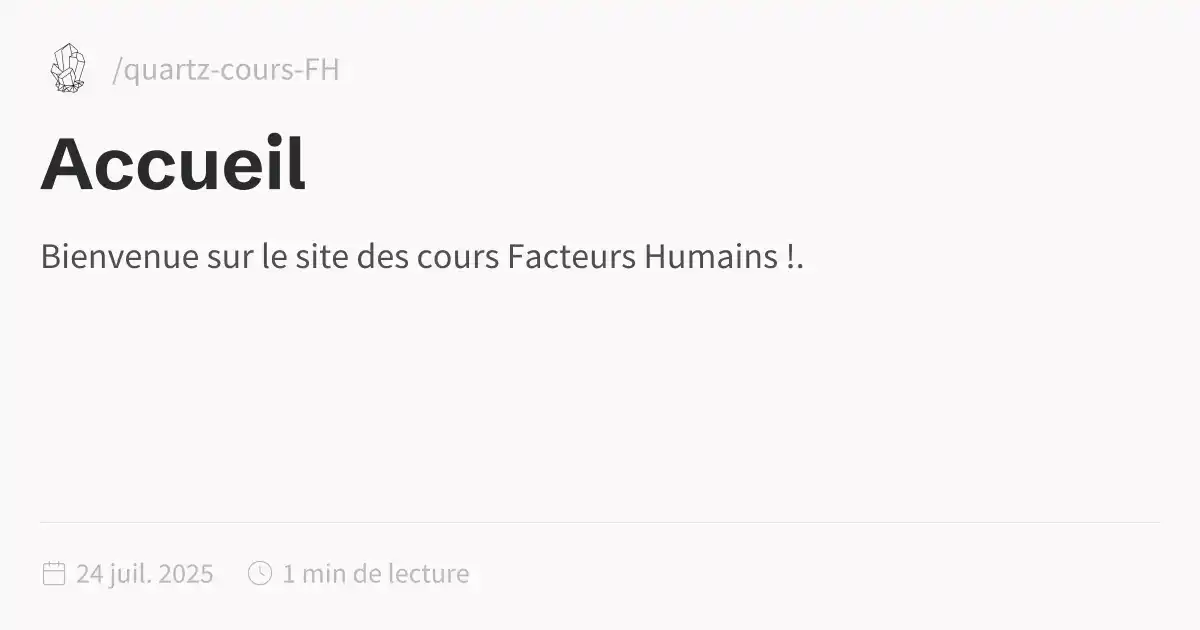
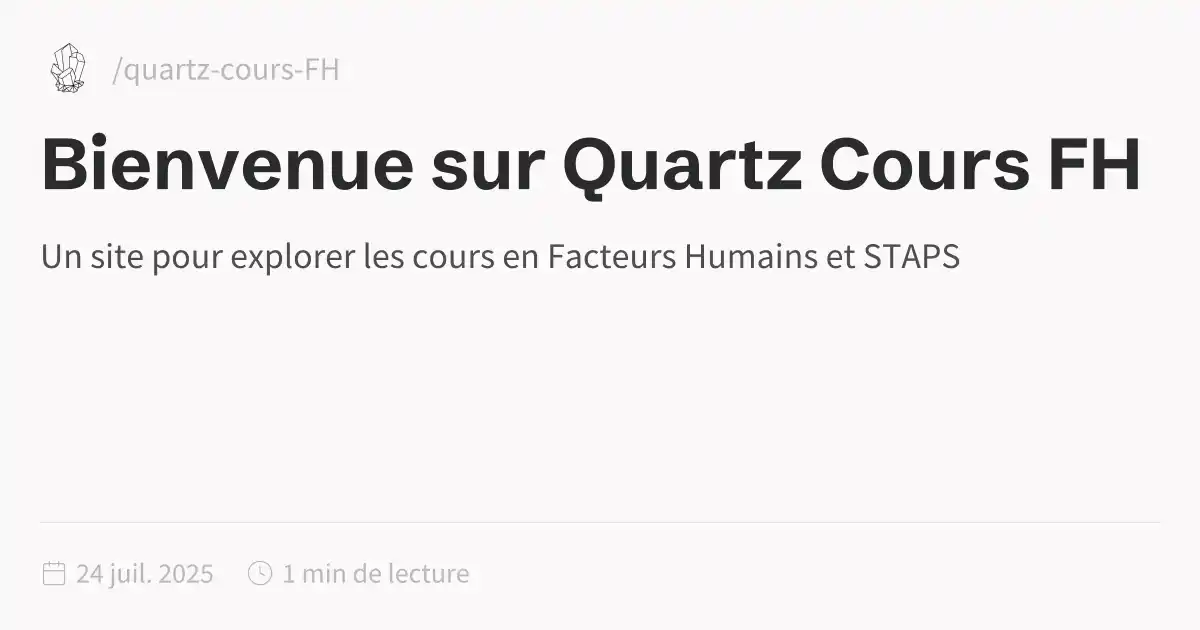
deploy: mise à jour du site

Changed region(s): [[0.0308, 0.2111, 0.9558, 0.3317], [0.0308, 0.3921, 0.8017, 0.4524]]

diff --git a/index.html b/index.html
@@ -1,5 +1,5 @@
 <!DOCTYPE html>
-<html lang="fr"><head><title>Accueil</title><meta charset="utf-8"/><link rel="preconnect" href="https://fonts.googleapis.com"/><link rel="preconnect" href="https://fonts.gstatic.com"/><link rel="stylesheet" href="https://fonts.googleapis.com/css2?family=Schibsted Grotesk:wght@400;700&amp;family=Source Sans Pro:ital,wght@0,400;0,600;1,400;1,600&amp;family=IBM Plex Mono:wght@400;600&amp;display=swap"/><link rel="preconnect" href="https://cdnjs.cloudflare.com" crossorigin="anonymous"/><meta name="viewport" content="width=device-width, initial-scale=1.0"/><meta name="og:site_name" content="Quartz 4"/><meta property="og:title" content="Accueil"/><meta property="og:type" content="website"/><meta name="twitter:card" content="summary_large_image"/><meta name="twitter:title" content="Accueil"/><meta name="twitter:description" content="Bienvenue sur le site des cours Facteurs Humains !."/><meta property="og:description" content="Bienvenue sur le site des cours Facteurs Humains !."/><meta property="og:image:alt" content="Bienvenue sur le site des cours Facteurs Humains !."/><meta property="twitter:domain" content="/quartz-cours-FH"/><meta property="og:url" content="https://quartz-cours-fh/index"/><meta property="twitter:url" content="https://quartz-cours-fh/index"/><link rel="icon" href="./static/icon.png"/><meta name="description" content="Bienvenue sur le site des cours Facteurs Humains !."/><meta name="generator" content="Quartz"/><link href="./index.css" rel="stylesheet" type="text/css" spa-preserve/><style>.expand-button {
+<html lang="fr"><head><title>Bienvenue sur Quartz Cours FH</title><meta charset="utf-8"/><link rel="preconnect" href="https://fonts.googleapis.com"/><link rel="preconnect" href="https://fonts.gstatic.com"/><link rel="stylesheet" href="https://fonts.googleapis.com/css2?family=Schibsted Grotesk:wght@400;700&amp;family=Source Sans Pro:ital,wght@0,400;0,600;1,400;1,600&amp;family=IBM Plex Mono:wght@400;600&amp;display=swap"/><link rel="preconnect" href="https://cdnjs.cloudflare.com" crossorigin="anonymous"/><meta name="viewport" content="width=device-width, initial-scale=1.0"/><meta name="og:site_name" content="Quartz 4"/><meta property="og:title" content="Bienvenue sur Quartz Cours FH"/><meta property="og:type" content="website"/><meta name="twitter:card" content="summary_large_image"/><meta name="twitter:title" content="Bienvenue sur Quartz Cours FH"/><meta name="twitter:description" content="Un site pour explorer les cours en Facteurs Humains et STAPS"/><meta property="og:description" content="Un site pour explorer les cours en Facteurs Humains et STAPS"/><meta property="og:image:alt" content="Un site pour explorer les cours en Facteurs Humains et STAPS"/><meta property="twitter:domain" content="/quartz-cours-FH"/><meta property="og:url" content="https://quartz-cours-fh/index"/><meta property="twitter:url" content="https://quartz-cours-fh/index"/><link rel="icon" href="./static/icon.png"/><meta name="description" content="Un site pour explorer les cours en Facteurs Humains et STAPS"/><meta name="generator" content="Quartz"/><link href="./index.css" rel="stylesheet" type="text/css" spa-preserve/><style>.expand-button {
   position: absolute;
   display: flex;
   float: right;
@@ -116,7 +116,22 @@ pre:hover > .expand-button {
   padding: 0 12px;
   font-size: 14px;
 }
[2 lines of base64/hex data omitted]
+  <img src="./static/logo.png" alt="Logo du site" width="100"/>
+</div>
+<h1 id="-bienvenue-">👋 Bienvenue !<a role="anchor" aria-hidden="true" tabindex="-1" data-no-popover="true" href="#-bienvenue-" class="internal"><svg width="18" height="18" viewBox="0 0 24 24" fill="none" stroke="currentColor" stroke-width="2" stroke-linecap="round" stroke-linejoin="round"><path d="M10 13a5 5 0 0 0 7.54.54l3-3a5 5 0 0 0-7.07-7.07l-1.72 1.71"></path><path d="M14 11a5 5 0 0 0-7.54-.54l-3 3a5 5 0 0 0 7.07 7.07l1.71-1.71"></path></svg></a></h1>
+<p>Ce site rassemble mes notes de cours, fiches de révision et lectures dans le cadre du Master IEAP.</p>
+<h2 id="-accès-rapide">🌟 Accès rapide<a role="anchor" aria-hidden="true" tabindex="-1" data-no-popover="true" href="#-accès-rapide" class="internal"><svg width="18" height="18" viewBox="0 0 24 24" fill="none" stroke="currentColor" stroke-width="2" stroke-linecap="round" stroke-linejoin="round"><path d="M10 13a5 5 0 0 0 7.54.54l3-3a5 5 0 0 0-7.07-7.07l-1.72 1.71"></path><path d="M14 11a5 5 0 0 0-7.54-.54l-3 3a5 5 0 0 0 7.07 7.07l1.71-1.71"></path></svg></a></h2>
+<ul>
+<li><a href="./Réponses-perceptives/" class="internal alias" data-slug="Réponses-perceptives/index">Réponses perceptives</a></li>
+<li><a href="./Réponses-perceptives/psychophysique" class="internal alias" data-slug="Réponses-perceptives/psychophysique">Psychophysique</a></li>
+<li><a href="./Réponses-perceptives/Vision-centrale-vs-périphérique" class="internal alias" data-slug="Réponses-perceptives/Vision-centrale-vs-périphérique">Vision centrale vs périphérique</a></li>
+</ul>
+<h2 id="-objectif">✨ Objectif<a role="anchor" aria-hidden="true" tabindex="-1" data-no-popover="true" href="#-objectif" class="internal"><svg width="18" height="18" viewBox="0 0 24 24" fill="none" stroke="currentColor" stroke-width="2" stroke-linecap="round" stroke-linejoin="round"><path d="M10 13a5 5 0 0 0 7.54.54l3-3a5 5 0 0 0-7.07-7.07l-1.72 1.71"></path><path d="M14 11a5 5 0 0 0-7.54-.54l-3 3a5 5 0 0 0 7.07 7.07l1.71-1.71"></path></svg></a></h2>
+<p>Proposer une navigation claire et agréable autour des contenus de formation en facteurs humains.
+![]<img width="433" height="577" alt="belo la pose" src="https://github.com/user-attachments/assets/2b79655c-0cf8-479d-b318-d82604ed383e"/></p>
+<hr/>
+<p>💡 Site construit avec <a href="https://github.com/jackyzhao/quartz" class="external">Quartz<svg aria-hidden="true" class="external-icon" style="max-width:0.8em;max-height:0.8em;" viewBox="0 0 512 512"><path d="M320 0H288V64h32 82.7L201.4 265.4 178.7 288 224 333.3l22.6-22.6L448 109.3V192v32h64V192 32 0H480 320zM32 32H0V64 480v32H32 456h32V480 352 320H424v32 96H64V96h96 32V32H160 32z"></path></svg></a></p></article><hr/><div class="page-footer"></div></div><div class="right sidebar"><div class="graph"><h3>Vue Graphique</h3><div class="graph-outer"><div class="graph-container" data-cfg="{&quot;drag&quot;:true,&quot;zoom&quot;:true,&quot;depth&quot;:1,&quot;scale&quot;:1.1,&quot;repelForce&quot;:0.5,&quot;centerForce&quot;:0.3,&quot;linkDistance&quot;:30,&quot;fontSize&quot;:0.6,&quot;opacityScale&quot;:1,&quot;showTags&quot;:true,&quot;removeTags&quot;:[],&quot;focusOnHover&quot;:false,&quot;enableRadial&quot;:false}"></div><button class="global-graph-icon" aria-label="Global Graph"><svg version="1.1" xmlns="http://www.w3.org/2000/svg" xmlns:xlink="http://www.w3.org/1999/xlink" x="0px" y="0px" viewBox="0 0 55 55" fill="currentColor" xml:space="preserve"><path d="M49,0c-3.309,0-6,2.691-6,6c0,1.035,0.263,2.009,0.726,2.86l-9.829,9.829C32.542,17.634,30.846,17,29,17
                 s-3.542,0.634-4.898,1.688l-7.669-7.669C16.785,10.424,17,9.74,17,9c0-2.206-1.794-4-4-4S9,6.794,9,9s1.794,4,4,4
                 c0.74,0,1.424-0.215,2.019-0.567l7.669,7.669C21.634,21.458,21,23.154,21,25s0.634,3.542,1.688,4.897L10.024,42.562
                 C8.958,41.595,7.549,41,6,41c-3.309,0-6,2.691-6,6s2.691,6,6,6s6-2.691,6-6c0-1.035-0.263-2.009-0.726-2.86l12.829-12.829
@@ -126,6 +141,6 @@ pre:hover > .expand-button {
                 C46.042,11.405,47.451,12,49,12c3.309,0,6-2.691,6-6S52.309,0,49,0z M11,9c0-1.103,0.897-2,2-2s2,0.897,2,2s-0.897,2-2,2
                 S11,10.103,11,9z M6,51c-2.206,0-4-1.794-4-4s1.794-4,4-4s4,1.794,4,4S8.206,51,6,51z M33,49c0,2.206-1.794,4-4,4s-4-1.794-4-4
                 s1.794-4,4-4S33,46.794,33,49z M29,31c-3.309,0-6-2.691-6-6s2.691-6,6-6s6,2.691,6,6S32.309,31,29,31z M47,41c0,1.103-0.897,2-2,2
-                s-2-0.897-2-2s0.897-2,2-2S47,39.897,47,41z M49,10c-2.206,0-4-1.794-4-4s1.794-4,4-4s4,1.794,4,4S51.206,10,49,10z"></path></svg></button></div><div class="global-graph-outer"><div class="global-graph-container" data-cfg="{&quot;drag&quot;:true,&quot;zoom&quot;:true,&quot;depth&quot;:-1,&quot;scale&quot;:0.9,&quot;repelForce&quot;:0.5,&quot;centerForce&quot;:0.2,&quot;linkDistance&quot;:30,&quot;fontSize&quot;:0.6,&quot;opacityScale&quot;:1,&quot;showTags&quot;:true,&quot;removeTags&quot;:[],&quot;focusOnHover&quot;:true,&quot;enableRadial&quot;:true}"></div></div></div></div><footer class><p>Créé avec <a href="https://quartz.jzhao.xyz/">Quartz v4.5.1</a> © 2025</p><ul><li><a href="https://github.com/jackyzha0/quartz">GitHub</a></li><li><a href="https://discord.gg/cRFFHYye7t">Discord Community</a></li></ul></footer></div></div></body><script type="application/javascript">function n(){let t=this.parentElement;t.classList.toggle("is-collapsed");let e=t.getElementsByClassName("callout-content")[0];if(!e)return;let l=t.classList.contains("is-collapsed");e.style.gridTemplateRows=l?"0fr":"1fr"}function c(){let t=document.getElementsByClassName("callout is-collapsible");for(let e of t){let l=e.getElementsByClassName("callout-title")[0],s=e.getElementsByClassName("callout-content")[0];if(!l||!s)continue;l.addEventListener("click",n),window.addCleanup(()=>l.removeEventListener("click",n));let o=e.classList.contains("is-collapsed");s.style.gridTemplateRows=o?"0fr":"1fr"}}document.addEventListener("nav",c);
+                s-2-0.897-2-2s0.897-2,2-2S47,39.897,47,41z M49,10c-2.206,0-4-1.794-4-4s1.794-4,4-4s4,1.794,4,4S51.206,10,49,10z"></path></svg></button></div><div class="global-graph-outer"><div class="global-graph-container" data-cfg="{&quot;drag&quot;:true,&quot;zoom&quot;:true,&quot;depth&quot;:-1,&quot;scale&quot;:0.9,&quot;repelForce&quot;:0.5,&quot;centerForce&quot;:0.2,&quot;linkDistance&quot;:30,&quot;fontSize&quot;:0.6,&quot;opacityScale&quot;:1,&quot;showTags&quot;:true,&quot;removeTags&quot;:[],&quot;focusOnHover&quot;:true,&quot;enableRadial&quot;:true}"></div></div></div><div class="toc desktop-only"><button type="button" class="toc-header" aria-controls="toc-content" aria-expanded="true"><h3>Table des Matières</h3><svg xmlns="http://www.w3.org/2000/svg" width="24" height="24" viewBox="0 0 24 24" fill="none" stroke="currentColor" stroke-width="2" stroke-linecap="round" stroke-linejoin="round" class="fold"><polyline points="6 9 12 15 18 9"></polyline></svg></button><ul class="toc-content overflow" id="list-1"><li class="depth-0"><a href="#-bienvenue-" data-for="-bienvenue-">👋 Bienvenue !</a></li><li class="depth-1"><a href="#-accès-rapide" data-for="-accès-rapide">🌟 Accès rapide</a></li><li class="depth-1"><a href="#-objectif" data-for="-objectif">✨ Objectif</a></li><li class="overflow-end"></li></ul></div></div><footer class><p>Créé avec <a href="https://quartz.jzhao.xyz/">Quartz v4.5.1</a> © 2025</p><ul><li><a href="https://github.com/jackyzha0/quartz">GitHub</a></li><li><a href="https://discord.gg/cRFFHYye7t">Discord Community</a></li></ul></footer></div></div></body><script type="application/javascript">function n(){let t=this.parentElement;t.classList.toggle("is-collapsed");let e=t.getElementsByClassName("callout-content")[0];if(!e)return;let l=t.classList.contains("is-collapsed");e.style.gridTemplateRows=l?"0fr":"1fr"}function c(){let t=document.getElementsByClassName("callout is-collapsible");for(let e of t){let l=e.getElementsByClassName("callout-title")[0],s=e.getElementsByClassName("callout-content")[0];if(!l||!s)continue;l.addEventListener("click",n),window.addCleanup(()=>l.removeEventListener("click",n));let o=e.classList.contains("is-collapsed");s.style.gridTemplateRows=o?"0fr":"1fr"}}document.addEventListener("nav",c);
 </script><script type="module">function f(i,e){if(!i)return;function r(o){o.target===this&&(o.preventDefault(),o.stopPropagation(),e())}function t(o){o.key.startsWith("Esc")&&(o.preventDefault(),e())}i?.addEventListener("click",r),window.addCleanup(()=>i?.removeEventListener("click",r)),document.addEventListener("keydown",t),window.addCleanup(()=>document.removeEventListener("keydown",t))}function y(i){for(;i.firstChild;)i.removeChild(i.firstChild)}var h=class{constructor(e,r){this.container=e;this.content=r;this.setupEventListeners(),this.setupNavigationControls(),this.resetTransform()}isDragging=!1;startPan={x:0,y:0};currentPan={x:0,y:0};scale=1;MIN_SCALE=.5;MAX_SCALE=3;cleanups=[];setupEventListeners(){let e=this.onMouseDown.bind(this),r=this.onMouseMove.bind(this),t=this.onMouseUp.bind(this),o=this.resetTransform.bind(this);this.container.addEventListener("mousedown",e),document.addEventListener("mousemove",r),document.addEventListener("mouseup",t),window.addEventListener("resize",o),this.cleanups.push(()=>this.container.removeEventListener("mousedown",e),()=>document.removeEventListener("mousemove",r),()=>document.removeEventListener("mouseup",t),()=>window.removeEventListener("resize",o))}cleanup(){for(let e of this.cleanups)e()}setupNavigationControls(){let e=document.createElement("div");e.className="mermaid-controls";let r=this.createButton("+",()=>this.zoom(.1)),t=this.createButton("-",()=>this.zoom(-.1)),o=this.createButton("Reset",()=>this.resetTransform());e.appendChild(t),e.appendChild(o),e.appendChild(r),this.container.appendChild(e)}createButton(e,r){let t=document.createElement("button");return t.textContent=e,t.className="mermaid-control-button",t.addEventListener("click",r),window.addCleanup(()=>t.removeEventListener("click",r)),t}onMouseDown(e){e.button===0&&(this.isDragging=!0,this.startPan={x:e.clientX-this.currentPan.x,y:e.clientY-this.currentPan.y},this.container.style.cursor="grabbing")}onMouseMove(e){this.isDragging&&(e.preventDefault(),this.currentPan={x:e.clientX-this.startPan.x,y:e.clientY-this.startPan.y},this.updateTransform())}onMouseUp(){this.isDragging=!1,this.container.style.cursor="grab"}zoom(e){let r=Math.min(Math.max(this.scale+e,this.MIN_SCALE),this.MAX_SCALE),t=this.content.getBoundingClientRect(),o=t.width/2,n=t.height/2,c=r-this.scale;this.currentPan.x-=o*c,this.currentPan.y-=n*c,this.scale=r,this.updateTransform()}updateTransform(){this.content.style.transform=`translate(${this.currentPan.x}px, ${this.currentPan.y}px) scale(${this.scale})`}resetTransform(){this.scale=1;let e=this.content.querySelector("svg");this.currentPan={x:e.getBoundingClientRect().width/2,y:e.getBoundingClientRect().height/2},this.updateTransform()}},C=["--secondary","--tertiary","--gray","--light","--lightgray","--highlight","--dark","--darkgray","--codeFont"],E;document.addEventListener("nav",async()=>{let e=document.querySelector(".center").querySelectorAll("code.mermaid");if(e.length===0)return;E||=await import("https://cdnjs.cloudflare.com/ajax/libs/mermaid/11.4.0/mermaid.esm.min.mjs");let r=E.default,t=new WeakMap;for(let n of e)t.set(n,n.innerText);async function o(){for(let s of e){s.removeAttribute("data-processed");let a=t.get(s);a&&(s.innerHTML=a)}let n=C.reduce((s,a)=>(s[a]=window.getComputedStyle(document.documentElement).getPropertyValue(a),s),{}),c=document.documentElement.getAttribute("saved-theme")==="dark";r.initialize({startOnLoad:!1,securityLevel:"loose",theme:c?"dark":"base",themeVariables:{fontFamily:n["--codeFont"],primaryColor:n["--light"],primaryTextColor:n["--darkgray"],primaryBorderColor:n["--tertiary"],lineColor:n["--darkgray"],secondaryColor:n["--secondary"],tertiaryColor:n["--tertiary"],clusterBkg:n["--light"],edgeLabelBackground:n["--highlight"]}}),await r.run({nodes:e})}await o(),document.addEventListener("themechange",o),window.addCleanup(()=>document.removeEventListener("themechange",o));for(let n=0;n<e.length;n++){let v=function(){let g=l.querySelector("#mermaid-space"),m=l.querySelector(".mermaid-content");if(!m)return;y(m);let w=c.querySelector("svg").cloneNode(!0);m.appendChild(w),l.classList.add("active"),g.style.cursor="grab",u=new h(g,m)},M=function(){l.classList.remove("active"),u?.cleanup(),u=null},c=e[n],s=c.parentElement,a=s.querySelector(".clipboard-button"),d=s.querySelector(".expand-button"),p=window.getComputedStyle(a),L=a.offsetWidth+parseFloat(p.marginLeft||"0")+parseFloat(p.marginRight||"0");d.style.right=`calc(${L}px + 0.3rem)`,s.prepend(d);let l=s.querySelector("#mermaid-container");if(!l)return;let u=null;d.addEventListener("click",v),f(l,M),window.addCleanup(()=>{u?.cleanup(),d.removeEventListener("click",v)})}});
 </script><script src="https://cdn.jsdelivr.net/npm/katex@0.16.11/dist/contrib/copy-tex.min.js" type="application/javascript"></script><script src="./postscript.js" type="module"></script></html>

diff --git a/Réponses-perceptives/Vision-centrale-vs-périphérique.html b/Réponses-perceptives/Vision-centrale-vs-périphérique.html
@@ -251,6 +251,6 @@ pre:hover > .expand-button {
                 C46.042,11.405,47.451,12,49,12c3.309,0,6-2.691,6-6S52.309,0,49,0z M11,9c0-1.103,0.897-2,2-2s2,0.897,2,2s-0.897,2-2,2
                 S11,10.103,11,9z M6,51c-2.206,0-4-1.794-4-4s1.794-4,4-4s4,1.794,4,4S8.206,51,6,51z M33,49c0,2.206-1.794,4-4,4s-4-1.794-4-4
                 s1.794-4,4-4S33,46.794,33,49z M29,31c-3.309,0-6-2.691-6-6s2.691-6,6-6s6,2.691,6,6S32.309,31,29,31z M47,41c0,1.103-0.897,2-2,2
-                s-2-0.897-2-2s0.897-2,2-2S47,39.897,47,41z M49,10c-2.206,0-4-1.794-4-4s1.794-4,4-4s4,1.794,4,4S51.206,10,49,10z"></path></svg></button></div><div class="global-graph-outer"><div class="global-graph-container" data-cfg="{&quot;drag&quot;:true,&quot;zoom&quot;:true,&quot;depth&quot;:-1,&quot;scale&quot;:0.9,&quot;repelForce&quot;:0.5,&quot;centerForce&quot;:0.2,&quot;linkDistance&quot;:30,&quot;fontSize&quot;:0.6,&quot;opacityScale&quot;:1,&quot;showTags&quot;:true,&quot;removeTags&quot;:[],&quot;focusOnHover&quot;:true,&quot;enableRadial&quot;:true}"></div></div></div><div class="toc desktop-only"><button type="button" class="toc-header" aria-controls="toc-content" aria-expanded="true"><h3>Table des Matières</h3><svg xmlns="http://www.w3.org/2000/svg" width="24" height="24" viewBox="0 0 24 24" fill="none" stroke="currentColor" stroke-width="2" stroke-linecap="round" stroke-linejoin="round" class="fold"><polyline points="6 9 12 15 18 9"></polyline></svg></button><ul class="toc-content overflow" id="list-1"><li class="depth-0"><a href="#différences-structurelles-et-neuronales-entre-vision-centrale-et-périphérique" data-for="différences-structurelles-et-neuronales-entre-vision-centrale-et-périphérique">Différences structurelles et neuronales entre vision centrale et périphérique</a></li><li class="depth-1"><a href="#1-différences-structurelles-entre-vision-centrale-et-périphérique" data-for="1-différences-structurelles-entre-vision-centrale-et-périphérique">1. Différences structurelles entre vision centrale et périphérique</a></li><li class="depth-2"><a href="#explications-" data-for="explications-">Explications :</a></li><li class="depth-1"><a href="#2-différences-neuronales-entre-vision-centrale-et-périphérique" data-for="2-différences-neuronales-entre-vision-centrale-et-périphérique">2. Différences neuronales entre vision centrale et périphérique</a></li><li class="depth-2"><a href="#explications--1" data-for="explications--1">Explications :</a></li><li class="depth-1"><a href="#3-rôles-fonctionnels-des-deux-types-de-vision" data-for="3-rôles-fonctionnels-des-deux-types-de-vision">3. Rôles fonctionnels des deux types de vision</a></li><li class="depth-1"><a href="#références-format-apa" data-for="références-format-apa">Références (format APA)</a></li><li class="overflow-end"></li></ul></div></div><footer class><p>Créé avec <a href="https://quartz.jzhao.xyz/">Quartz v4.5.1</a> © 2025</p><ul><li><a href="https://github.com/jackyzha0/quartz">GitHub</a></li><li><a href="https://discord.gg/cRFFHYye7t">Discord Community</a></li></ul></footer></div></div></body><script type="application/javascript">function n(){let t=this.parentElement;t.classList.toggle("is-collapsed");let e=t.getElementsByClassName("callout-content")[0];if(!e)return;let l=t.classList.contains("is-collapsed");e.style.gridTemplateRows=l?"0fr":"1fr"}function c(){let t=document.getElementsByClassName("callout is-collapsible");for(let e of t){let l=e.getElementsByClassName("callout-title")[0],s=e.getElementsByClassName("callout-content")[0];if(!l||!s)continue;l.addEventListener("click",n),window.addCleanup(()=>l.removeEventListener("click",n));let o=e.classList.contains("is-collapsed");s.style.gridTemplateRows=o?"0fr":"1fr"}}document.addEventListener("nav",c);
+                s-2-0.897-2-2s0.897-2,2-2S47,39.897,47,41z M49,10c-2.206,0-4-1.794-4-4s1.794-4,4-4s4,1.794,4,4S51.206,10,49,10z"></path></svg></button></div><div class="global-graph-outer"><div class="global-graph-container" data-cfg="{&quot;drag&quot;:true,&quot;zoom&quot;:true,&quot;depth&quot;:-1,&quot;scale&quot;:0.9,&quot;repelForce&quot;:0.5,&quot;centerForce&quot;:0.2,&quot;linkDistance&quot;:30,&quot;fontSize&quot;:0.6,&quot;opacityScale&quot;:1,&quot;showTags&quot;:true,&quot;removeTags&quot;:[],&quot;focusOnHover&quot;:true,&quot;enableRadial&quot;:true}"></div></div></div><div class="toc desktop-only"><button type="button" class="toc-header" aria-controls="toc-content" aria-expanded="true"><h3>Table des Matières</h3><svg xmlns="http://www.w3.org/2000/svg" width="24" height="24" viewBox="0 0 24 24" fill="none" stroke="currentColor" stroke-width="2" stroke-linecap="round" stroke-linejoin="round" class="fold"><polyline points="6 9 12 15 18 9"></polyline></svg></button><ul class="toc-content overflow" id="list-1"><li class="depth-0"><a href="#différences-structurelles-et-neuronales-entre-vision-centrale-et-périphérique" data-for="différences-structurelles-et-neuronales-entre-vision-centrale-et-périphérique">Différences structurelles et neuronales entre vision centrale et périphérique</a></li><li class="depth-1"><a href="#1-différences-structurelles-entre-vision-centrale-et-périphérique" data-for="1-différences-structurelles-entre-vision-centrale-et-périphérique">1. Différences structurelles entre vision centrale et périphérique</a></li><li class="depth-2"><a href="#explications-" data-for="explications-">Explications :</a></li><li class="depth-1"><a href="#2-différences-neuronales-entre-vision-centrale-et-périphérique" data-for="2-différences-neuronales-entre-vision-centrale-et-périphérique">2. Différences neuronales entre vision centrale et périphérique</a></li><li class="depth-2"><a href="#explications--1" data-for="explications--1">Explications :</a></li><li class="depth-1"><a href="#3-rôles-fonctionnels-des-deux-types-de-vision" data-for="3-rôles-fonctionnels-des-deux-types-de-vision">3. Rôles fonctionnels des deux types de vision</a></li><li class="depth-1"><a href="#références-format-apa" data-for="références-format-apa">Références (format APA)</a></li><li class="overflow-end"></li></ul></div><div class="backlinks"><h3>Liens retour</h3><ul id="list-2" class="overflow"><li><a href="../" class="internal">Bienvenue sur Quartz Cours FH</a></li><li class="overflow-end"></li></ul></div></div><footer class><p>Créé avec <a href="https://quartz.jzhao.xyz/">Quartz v4.5.1</a> © 2025</p><ul><li><a href="https://github.com/jackyzha0/quartz">GitHub</a></li><li><a href="https://discord.gg/cRFFHYye7t">Discord Community</a></li></ul></footer></div></div></body><script type="application/javascript">function n(){let t=this.parentElement;t.classList.toggle("is-collapsed");let e=t.getElementsByClassName("callout-content")[0];if(!e)return;let l=t.classList.contains("is-collapsed");e.style.gridTemplateRows=l?"0fr":"1fr"}function c(){let t=document.getElementsByClassName("callout is-collapsible");for(let e of t){let l=e.getElementsByClassName("callout-title")[0],s=e.getElementsByClassName("callout-content")[0];if(!l||!s)continue;l.addEventListener("click",n),window.addCleanup(()=>l.removeEventListener("click",n));let o=e.classList.contains("is-collapsed");s.style.gridTemplateRows=o?"0fr":"1fr"}}document.addEventListener("nav",c);
 </script><script type="module">function f(i,e){if(!i)return;function r(o){o.target===this&&(o.preventDefault(),o.stopPropagation(),e())}function t(o){o.key.startsWith("Esc")&&(o.preventDefault(),e())}i?.addEventListener("click",r),window.addCleanup(()=>i?.removeEventListener("click",r)),document.addEventListener("keydown",t),window.addCleanup(()=>document.removeEventListener("keydown",t))}function y(i){for(;i.firstChild;)i.removeChild(i.firstChild)}var h=class{constructor(e,r){this.container=e;this.content=r;this.setupEventListeners(),this.setupNavigationControls(),this.resetTransform()}isDragging=!1;startPan={x:0,y:0};currentPan={x:0,y:0};scale=1;MIN_SCALE=.5;MAX_SCALE=3;cleanups=[];setupEventListeners(){let e=this.onMouseDown.bind(this),r=this.onMouseMove.bind(this),t=this.onMouseUp.bind(this),o=this.resetTransform.bind(this);this.container.addEventListener("mousedown",e),document.addEventListener("mousemove",r),document.addEventListener("mouseup",t),window.addEventListener("resize",o),this.cleanups.push(()=>this.container.removeEventListener("mousedown",e),()=>document.removeEventListener("mousemove",r),()=>document.removeEventListener("mouseup",t),()=>window.removeEventListener("resize",o))}cleanup(){for(let e of this.cleanups)e()}setupNavigationControls(){let e=document.createElement("div");e.className="mermaid-controls";let r=this.createButton("+",()=>this.zoom(.1)),t=this.createButton("-",()=>this.zoom(-.1)),o=this.createButton("Reset",()=>this.resetTransform());e.appendChild(t),e.appendChild(o),e.appendChild(r),this.container.appendChild(e)}createButton(e,r){let t=document.createElement("button");return t.textContent=e,t.className="mermaid-control-button",t.addEventListener("click",r),window.addCleanup(()=>t.removeEventListener("click",r)),t}onMouseDown(e){e.button===0&&(this.isDragging=!0,this.startPan={x:e.clientX-this.currentPan.x,y:e.clientY-this.currentPan.y},this.container.style.cursor="grabbing")}onMouseMove(e){this.isDragging&&(e.preventDefault(),this.currentPan={x:e.clientX-this.startPan.x,y:e.clientY-this.startPan.y},this.updateTransform())}onMouseUp(){this.isDragging=!1,this.container.style.cursor="grab"}zoom(e){let r=Math.min(Math.max(this.scale+e,this.MIN_SCALE),this.MAX_SCALE),t=this.content.getBoundingClientRect(),o=t.width/2,n=t.height/2,c=r-this.scale;this.currentPan.x-=o*c,this.currentPan.y-=n*c,this.scale=r,this.updateTransform()}updateTransform(){this.content.style.transform=`translate(${this.currentPan.x}px, ${this.currentPan.y}px) scale(${this.scale})`}resetTransform(){this.scale=1;let e=this.content.querySelector("svg");this.currentPan={x:e.getBoundingClientRect().width/2,y:e.getBoundingClientRect().height/2},this.updateTransform()}},C=["--secondary","--tertiary","--gray","--light","--lightgray","--highlight","--dark","--darkgray","--codeFont"],E;document.addEventListener("nav",async()=>{let e=document.querySelector(".center").querySelectorAll("code.mermaid");if(e.length===0)return;E||=await import("https://cdnjs.cloudflare.com/ajax/libs/mermaid/11.4.0/mermaid.esm.min.mjs");let r=E.default,t=new WeakMap;for(let n of e)t.set(n,n.innerText);async function o(){for(let s of e){s.removeAttribute("data-processed");let a=t.get(s);a&&(s.innerHTML=a)}let n=C.reduce((s,a)=>(s[a]=window.getComputedStyle(document.documentElement).getPropertyValue(a),s),{}),c=document.documentElement.getAttribute("saved-theme")==="dark";r.initialize({startOnLoad:!1,securityLevel:"loose",theme:c?"dark":"base",themeVariables:{fontFamily:n["--codeFont"],primaryColor:n["--light"],primaryTextColor:n["--darkgray"],primaryBorderColor:n["--tertiary"],lineColor:n["--darkgray"],secondaryColor:n["--secondary"],tertiaryColor:n["--tertiary"],clusterBkg:n["--light"],edgeLabelBackground:n["--highlight"]}}),await r.run({nodes:e})}await o(),document.addEventListener("themechange",o),window.addCleanup(()=>document.removeEventListener("themechange",o));for(let n=0;n<e.length;n++){let v=function(){let g=l.querySelector("#mermaid-space"),m=l.querySelector(".mermaid-content");if(!m)return;y(m);let w=c.querySelector("svg").cloneNode(!0);m.appendChild(w),l.classList.add("active"),g.style.cursor="grab",u=new h(g,m)},M=function(){l.classList.remove("active"),u?.cleanup(),u=null},c=e[n],s=c.parentElement,a=s.querySelector(".clipboard-button"),d=s.querySelector(".expand-button"),p=window.getComputedStyle(a),L=a.offsetWidth+parseFloat(p.marginLeft||"0")+parseFloat(p.marginRight||"0");d.style.right=`calc(${L}px + 0.3rem)`,s.prepend(d);let l=s.querySelector("#mermaid-container");if(!l)return;let u=null;d.addEventListener("click",v),f(l,M),window.addCleanup(()=>{u?.cleanup(),d.removeEventListener("click",v)})}});
 </script><script src="https://cdn.jsdelivr.net/npm/katex@0.16.11/dist/contrib/copy-tex.min.js" type="application/javascript"></script><script src="../postscript.js" type="module"></script></html>

diff --git a/Réponses-perceptives/psychophysique.html b/Réponses-perceptives/psychophysique.html
@@ -139,6 +139,6 @@ pre:hover > .expand-button {
                 C46.042,11.405,47.451,12,49,12c3.309,0,6-2.691,6-6S52.309,0,49,0z M11,9c0-1.103,0.897-2,2-2s2,0.897,2,2s-0.897,2-2,2
                 S11,10.103,11,9z M6,51c-2.206,0-4-1.794-4-4s1.794-4,4-4s4,1.794,4,4S8.206,51,6,51z M33,49c0,2.206-1.794,4-4,4s-4-1.794-4-4
                 s1.794-4,4-4S33,46.794,33,49z M29,31c-3.309,0-6-2.691-6-6s2.691-6,6-6s6,2.691,6,6S32.309,31,29,31z M47,41c0,1.103-0.897,2-2,2
-                s-2-0.897-2-2s0.897-2,2-2S47,39.897,47,41z M49,10c-2.206,0-4-1.794-4-4s1.794-4,4-4s4,1.794,4,4S51.206,10,49,10z"></path></svg></button></div><div class="global-graph-outer"><div class="global-graph-container" data-cfg="{&quot;drag&quot;:true,&quot;zoom&quot;:true,&quot;depth&quot;:-1,&quot;scale&quot;:0.9,&quot;repelForce&quot;:0.5,&quot;centerForce&quot;:0.2,&quot;linkDistance&quot;:30,&quot;fontSize&quot;:0.6,&quot;opacityScale&quot;:1,&quot;showTags&quot;:true,&quot;removeTags&quot;:[],&quot;focusOnHover&quot;:true,&quot;enableRadial&quot;:true}"></div></div></div><div class="toc desktop-only"><button type="button" class="toc-header" aria-controls="toc-content" aria-expanded="true"><h3>Table des Matières</h3><svg xmlns="http://www.w3.org/2000/svg" width="24" height="24" viewBox="0 0 24 24" fill="none" stroke="currentColor" stroke-width="2" stroke-linecap="round" stroke-linejoin="round" class="fold"><polyline points="6 9 12 15 18 9"></polyline></svg></button><ul class="toc-content overflow" id="list-1"><li class="depth-0"><a href="#définition-simple" data-for="définition-simple">Définition simple</a></li><li class="depth-0"><a href="#définition-scientifique" data-for="définition-scientifique">Définition scientifique</a></li><li class="depth-0"><a href="#justification-scientifique" data-for="justification-scientifique">Justification scientifique</a></li><li class="overflow-end"></li></ul></div></div><footer class><p>Créé avec <a href="https://quartz.jzhao.xyz/">Quartz v4.5.1</a> © 2025</p><ul><li><a href="https://github.com/jackyzha0/quartz">GitHub</a></li><li><a href="https://discord.gg/cRFFHYye7t">Discord Community</a></li></ul></footer></div></div></body><script type="application/javascript">function n(){let t=this.parentElement;t.classList.toggle("is-collapsed");let e=t.getElementsByClassName("callout-content")[0];if(!e)return;let l=t.classList.contains("is-collapsed");e.style.gridTemplateRows=l?"0fr":"1fr"}function c(){let t=document.getElementsByClassName("callout is-collapsible");for(let e of t){let l=e.getElementsByClassName("callout-title")[0],s=e.getElementsByClassName("callout-content")[0];if(!l||!s)continue;l.addEventListener("click",n),window.addCleanup(()=>l.removeEventListener("click",n));let o=e.classList.contains("is-collapsed");s.style.gridTemplateRows=o?"0fr":"1fr"}}document.addEventListener("nav",c);
+                s-2-0.897-2-2s0.897-2,2-2S47,39.897,47,41z M49,10c-2.206,0-4-1.794-4-4s1.794-4,4-4s4,1.794,4,4S51.206,10,49,10z"></path></svg></button></div><div class="global-graph-outer"><div class="global-graph-container" data-cfg="{&quot;drag&quot;:true,&quot;zoom&quot;:true,&quot;depth&quot;:-1,&quot;scale&quot;:0.9,&quot;repelForce&quot;:0.5,&quot;centerForce&quot;:0.2,&quot;linkDistance&quot;:30,&quot;fontSize&quot;:0.6,&quot;opacityScale&quot;:1,&quot;showTags&quot;:true,&quot;removeTags&quot;:[],&quot;focusOnHover&quot;:true,&quot;enableRadial&quot;:true}"></div></div></div><div class="toc desktop-only"><button type="button" class="toc-header" aria-controls="toc-content" aria-expanded="true"><h3>Table des Matières</h3><svg xmlns="http://www.w3.org/2000/svg" width="24" height="24" viewBox="0 0 24 24" fill="none" stroke="currentColor" stroke-width="2" stroke-linecap="round" stroke-linejoin="round" class="fold"><polyline points="6 9 12 15 18 9"></polyline></svg></button><ul class="toc-content overflow" id="list-1"><li class="depth-0"><a href="#définition-simple" data-for="définition-simple">Définition simple</a></li><li class="depth-0"><a href="#définition-scientifique" data-for="définition-scientifique">Définition scientifique</a></li><li class="depth-0"><a href="#justification-scientifique" data-for="justification-scientifique">Justification scientifique</a></li><li class="overflow-end"></li></ul></div><div class="backlinks"><h3>Liens retour</h3><ul id="list-2" class="overflow"><li><a href="../" class="internal">Bienvenue sur Quartz Cours FH</a></li><li class="overflow-end"></li></ul></div></div><footer class><p>Créé avec <a href="https://quartz.jzhao.xyz/">Quartz v4.5.1</a> © 2025</p><ul><li><a href="https://github.com/jackyzha0/quartz">GitHub</a></li><li><a href="https://discord.gg/cRFFHYye7t">Discord Community</a></li></ul></footer></div></div></body><script type="application/javascript">function n(){let t=this.parentElement;t.classList.toggle("is-collapsed");let e=t.getElementsByClassName("callout-content")[0];if(!e)return;let l=t.classList.contains("is-collapsed");e.style.gridTemplateRows=l?"0fr":"1fr"}function c(){let t=document.getElementsByClassName("callout is-collapsible");for(let e of t){let l=e.getElementsByClassName("callout-title")[0],s=e.getElementsByClassName("callout-content")[0];if(!l||!s)continue;l.addEventListener("click",n),window.addCleanup(()=>l.removeEventListener("click",n));let o=e.classList.contains("is-collapsed");s.style.gridTemplateRows=o?"0fr":"1fr"}}document.addEventListener("nav",c);
 </script><script type="module">function f(i,e){if(!i)return;function r(o){o.target===this&&(o.preventDefault(),o.stopPropagation(),e())}function t(o){o.key.startsWith("Esc")&&(o.preventDefault(),e())}i?.addEventListener("click",r),window.addCleanup(()=>i?.removeEventListener("click",r)),document.addEventListener("keydown",t),window.addCleanup(()=>document.removeEventListener("keydown",t))}function y(i){for(;i.firstChild;)i.removeChild(i.firstChild)}var h=class{constructor(e,r){this.container=e;this.content=r;this.setupEventListeners(),this.setupNavigationControls(),this.resetTransform()}isDragging=!1;startPan={x:0,y:0};currentPan={x:0,y:0};scale=1;MIN_SCALE=.5;MAX_SCALE=3;cleanups=[];setupEventListeners(){let e=this.onMouseDown.bind(this),r=this.onMouseMove.bind(this),t=this.onMouseUp.bind(this),o=this.resetTransform.bind(this);this.container.addEventListener("mousedown",e),document.addEventListener("mousemove",r),document.addEventListener("mouseup",t),window.addEventListener("resize",o),this.cleanups.push(()=>this.container.removeEventListener("mousedown",e),()=>document.removeEventListener("mousemove",r),()=>document.removeEventListener("mouseup",t),()=>window.removeEventListener("resize",o))}cleanup(){for(let e of this.cleanups)e()}setupNavigationControls(){let e=document.createElement("div");e.className="mermaid-controls";let r=this.createButton("+",()=>this.zoom(.1)),t=this.createButton("-",()=>this.zoom(-.1)),o=this.createButton("Reset",()=>this.resetTransform());e.appendChild(t),e.appendChild(o),e.appendChild(r),this.container.appendChild(e)}createButton(e,r){let t=document.createElement("button");return t.textContent=e,t.className="mermaid-control-button",t.addEventListener("click",r),window.addCleanup(()=>t.removeEventListener("click",r)),t}onMouseDown(e){e.button===0&&(this.isDragging=!0,this.startPan={x:e.clientX-this.currentPan.x,y:e.clientY-this.currentPan.y},this.container.style.cursor="grabbing")}onMouseMove(e){this.isDragging&&(e.preventDefault(),this.currentPan={x:e.clientX-this.startPan.x,y:e.clientY-this.startPan.y},this.updateTransform())}onMouseUp(){this.isDragging=!1,this.container.style.cursor="grab"}zoom(e){let r=Math.min(Math.max(this.scale+e,this.MIN_SCALE),this.MAX_SCALE),t=this.content.getBoundingClientRect(),o=t.width/2,n=t.height/2,c=r-this.scale;this.currentPan.x-=o*c,this.currentPan.y-=n*c,this.scale=r,this.updateTransform()}updateTransform(){this.content.style.transform=`translate(${this.currentPan.x}px, ${this.currentPan.y}px) scale(${this.scale})`}resetTransform(){this.scale=1;let e=this.content.querySelector("svg");this.currentPan={x:e.getBoundingClientRect().width/2,y:e.getBoundingClientRect().height/2},this.updateTransform()}},C=["--secondary","--tertiary","--gray","--light","--lightgray","--highlight","--dark","--darkgray","--codeFont"],E;document.addEventListener("nav",async()=>{let e=document.querySelector(".center").querySelectorAll("code.mermaid");if(e.length===0)return;E||=await import("https://cdnjs.cloudflare.com/ajax/libs/mermaid/11.4.0/mermaid.esm.min.mjs");let r=E.default,t=new WeakMap;for(let n of e)t.set(n,n.innerText);async function o(){for(let s of e){s.removeAttribute("data-processed");let a=t.get(s);a&&(s.innerHTML=a)}let n=C.reduce((s,a)=>(s[a]=window.getComputedStyle(document.documentElement).getPropertyValue(a),s),{}),c=document.documentElement.getAttribute("saved-theme")==="dark";r.initialize({startOnLoad:!1,securityLevel:"loose",theme:c?"dark":"base",themeVariables:{fontFamily:n["--codeFont"],primaryColor:n["--light"],primaryTextColor:n["--darkgray"],primaryBorderColor:n["--tertiary"],lineColor:n["--darkgray"],secondaryColor:n["--secondary"],tertiaryColor:n["--tertiary"],clusterBkg:n["--light"],edgeLabelBackground:n["--highlight"]}}),await r.run({nodes:e})}await o(),document.addEventListener("themechange",o),window.addCleanup(()=>document.removeEventListener("themechange",o));for(let n=0;n<e.length;n++){let v=function(){let g=l.querySelector("#mermaid-space"),m=l.querySelector(".mermaid-content");if(!m)return;y(m);let w=c.querySelector("svg").cloneNode(!0);m.appendChild(w),l.classList.add("active"),g.style.cursor="grab",u=new h(g,m)},M=function(){l.classList.remove("active"),u?.cleanup(),u=null},c=e[n],s=c.parentElement,a=s.querySelector(".clipboard-button"),d=s.querySelector(".expand-button"),p=window.getComputedStyle(a),L=a.offsetWidth+parseFloat(p.marginLeft||"0")+parseFloat(p.marginRight||"0");d.style.right=`calc(${L}px + 0.3rem)`,s.prepend(d);let l=s.querySelector("#mermaid-container");if(!l)return;let u=null;d.addEventListener("click",v),f(l,M),window.addCleanup(()=>{u?.cleanup(),d.removeEventListener("click",v)})}});
 </script><script src="https://cdn.jsdelivr.net/npm/katex@0.16.11/dist/contrib/copy-tex.min.js" type="application/javascript"></script><script src="../postscript.js" type="module"></script></html>
